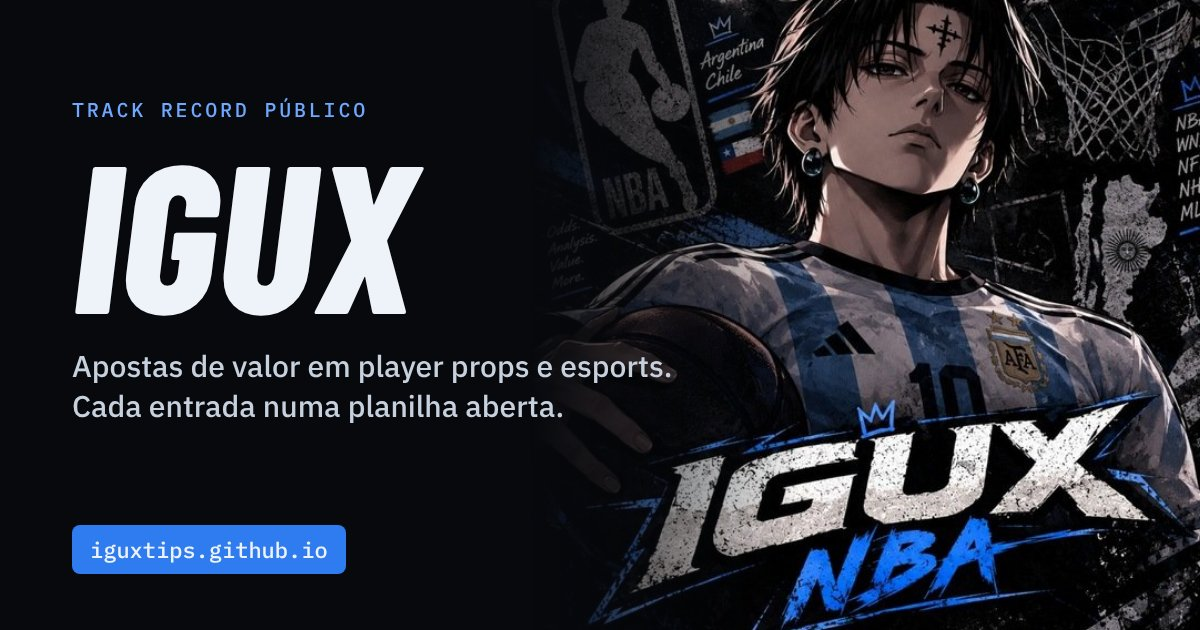
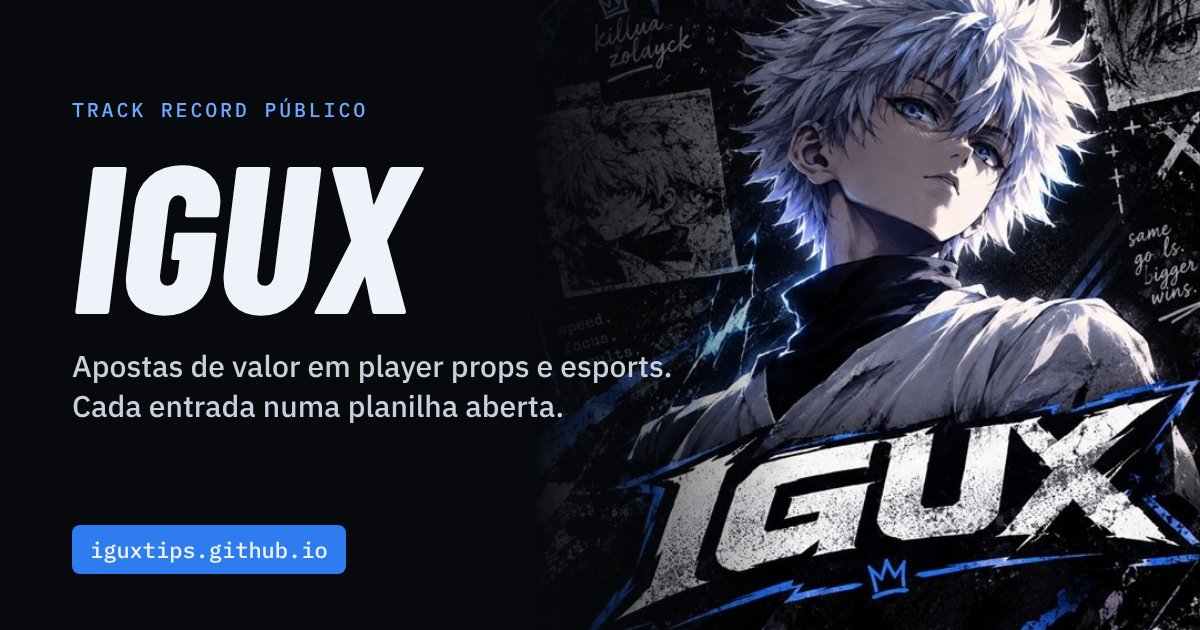
Artes de cada grupo nos cartões, nas abas e no topo
Claude-Session: https://claude.ai/code/session_01Tyuiv6YAYP7VsQ463MjUCv

diff --git a/index.html b/index.html
@@ -114,6 +114,8 @@ h3{font-weight:700;text-transform:uppercase;letter-spacing:.03em}
 .tabs{display:inline-flex;gap:4px;padding:4px;background:var(--surface);border:1px solid var(--line);border-radius:12px}
 .tabs button{font:600 14px var(--body);border:0;background:transparent;color:var(--muted);padding:8px 14px;border-radius:9px;cursor:pointer;min-height:40px}
 .tabs button[aria-pressed="true"]{background:var(--accent);color:#fff}
+.tabs button{display:inline-flex;align-items:center;gap:8px}
+.tabs img{display:inline-block;width:22px;height:22px;border-radius:50%;object-fit:cover}
 .sel{font:500 14px var(--body);background:var(--surface);color:var(--ink);border:1px solid var(--line);border-radius:10px;padding:9px 12px;min-height:42px}
 .live{display:inline-flex;align-items:center;gap:8px;font:500 12px var(--mono);letter-spacing:.08em;text-transform:uppercase;color:var(--muted)}
 .live::before{content:"";width:8px;height:8px;border-radius:50%;background:var(--green);box-shadow:0 0 0 4px var(--green-soft)}
@@ -165,6 +167,7 @@ td.pos{color:var(--green)} td.neg{color:var(--red)} td.na{color:var(--dim)}
 .svc-card{position:relative;background:var(--surface);border:1px solid var(--line);border-radius:16px;padding:20px;display:grid;gap:10px;align-content:start;overflow:hidden}
 .svc-card::before{content:"";position:absolute;left:0;top:0;bottom:0;width:3px;background:var(--line-2)}
 .svc-card.ao-vivo::before{background:var(--accent)}
+.svc-img{display:block;margin:-20px -20px 4px;width:calc(100% + 40px);max-width:none;height:150px;object-fit:cover;object-position:50% 24%;border-bottom:1px solid var(--line);filter:saturate(1.05)}
 .svc-card .badge{justify-self:start;font:500 11px var(--mono);letter-spacing:.08em;text-transform:uppercase;padding:3px 8px;border-radius:999px;background:var(--line);color:var(--muted)}
 .svc-card.ao-vivo .badge{background:var(--accent-soft);color:var(--accent-2)}
 .svc-card h3{font-size:24px}
@@ -249,10 +252,10 @@ footer p{margin:0;max-width:80ch}
       </div>
       <figure class="hero-art" style="margin:0">
         <picture>
-          <source srcset="img/igux-nba.webp" type="image/webp">
-          <img src="img/igux-nba.jpg" alt="Arte do Igux NBA: jogador com a camisa da Argentina segurando uma bola de basquete" width="640" height="640">
+          <source srcset="img/igux-futebol.webp" type="image/webp">
+          <img src="img/igux-futebol.jpg" alt="Arte do Igux: personagem de cabelo branco com o logo IGUX" width="640" height="640" fetchpriority="high">
         </picture>
-        <figcaption>Argentina · Chile</figcaption>
+        <figcaption>Speed · Focus · Results</figcaption>
       </figure>
     </div>
   </section>
@@ -266,8 +269,8 @@ footer p{margin:0;max-width:80ch}
         </div>
         <div class="panel-bar">
           <div class="tabs" role="group" aria-label="Canal">
-            <button type="button" data-canal="poly" aria-pressed="true">Canal Poly++</button>
-            <button type="button" data-canal="gringa" aria-pressed="false">NBA Gringa</button>
+            <button type="button" data-canal="poly" aria-pressed="true"><img src="img/igux-poly-mini.jpg" alt="" width="22" height="22">Canal Poly++</button>
+            <button type="button" data-canal="gringa" aria-pressed="false"><img src="img/igux-nba-mini.jpg" alt="" width="22" height="22">NBA Gringa</button>
           </div>
           <label><span class="sr" hidden>Período</span><select class="sel" id="periodoSel" aria-label="Período"></select></label>
         </div>
@@ -321,7 +324,7 @@ footer p{margin:0;max-width:80ch}
   <section class="sec" id="sobre">
     <div class="wrap">
       <div class="about">
-        <picture><source srcset="img/igux-nba.webp" type="image/webp"><img src="img/igux-nba.jpg" alt="" width="132" height="132" loading="lazy"></picture>
+        <picture><source srcset="img/igux-futebol.webp" type="image/webp"><img src="img/igux-futebol.jpg" alt="" width="132" height="132" loading="lazy"></picture>
         <div>
           <p class="kicker">// Quem é o Igux</p>
           <h2>Sobre</h2>
@@ -452,10 +455,10 @@ footer p{margin:0;max-width:80ch}
     DADOS = dados;
     var poly = lerLista(dados.apostas), gringa = lerLista(dados.gringa);
     var fixos = [
-      { id: "props", nome: HISTORICO.props.nome, periodo: HISTORICO.props.periodo, nota: HISTORICO.props.nota, meses: HISTORICO.props.meses, apostas: HISTORICO.props.apostas, url: PLANILHA.props },
-      { id: "nba", nome: HISTORICO.nba.nome, periodo: HISTORICO.nba.periodo, nota: HISTORICO.nba.nota, meses: HISTORICO.nba.meses, apostas: HISTORICO.nba.apostas, url: PLANILHA.nba },
-      { id: "poly", nome: "Canal Poly++", periodo: "out 2026 em diante", nota: "Props de NHL, NFL e NBA, esports e prediction markets.", meses: porMes(poly), apostas: fmt(resolvidasDe(poly).length, 0), vivo: true, url: PLANILHA.poly },
-      { id: "gringa", nome: "NBA Gringa", periodo: "out 2026 em diante", nota: "Props de NBA na Betano e na Bet365, pra quem usa conta da Argentina, do Chile e de outros países.", meses: porMes(gringa), apostas: fmt(resolvidasDe(gringa).length, 0), vivo: true, url: PLANILHA.gringa }
+      { id: "props", nome: HISTORICO.props.nome, periodo: HISTORICO.props.periodo, nota: HISTORICO.props.nota, meses: HISTORICO.props.meses, apostas: HISTORICO.props.apostas, url: PLANILHA.props, img: "igux-futebol", pos: "50% 22%" },
+      { id: "nba", nome: HISTORICO.nba.nome, periodo: HISTORICO.nba.periodo, nota: HISTORICO.nba.nota, meses: HISTORICO.nba.meses, apostas: HISTORICO.nba.apostas, url: PLANILHA.nba, img: "igux-nba-red", pos: "50% 18%" },
+      { id: "poly", nome: "Canal Poly++", periodo: "out 2026 em diante", nota: "Props de NHL, NFL e NBA, esports e prediction markets.", meses: porMes(poly), apostas: fmt(resolvidasDe(poly).length, 0), vivo: true, url: PLANILHA.poly, img: "igux-poly", pos: "50% 30%" },
+      { id: "gringa", nome: "NBA Gringa", periodo: "out 2026 em diante", nota: "Props de NBA na Betano e na Bet365, pra quem usa conta da Argentina, do Chile e de outros países.", meses: porMes(gringa), apostas: fmt(resolvidasDe(gringa).length, 0), vivo: true, url: PLANILHA.gringa, img: "igux-nba", pos: "50% 22%" }
     ];
     var servicos = fixos.filter(function(sv){ return !sv.vivo || Object.keys(sv.meses).length; });
 
@@ -464,7 +467,10 @@ footer p{margin:0;max-width:80ch}
     servicos.forEach(function(sv){
       var t = somaMeses(sv.meses);
       var c = el("article", "svc-card" + (sv.vivo ? " ao-vivo" : ""));
-      c.appendChild(el("span", "badge", sv.vivo ? "Ao vivo · " + sv.periodo : sv.periodo));
+      var pic = el("picture"), so = el("source"); so.srcset = "img/" + sv.img + ".webp"; so.type = "image/webp";
+      var im = el("img", "svc-img"); im.src = "img/" + sv.img + ".jpg"; im.alt = ""; im.loading = "lazy"; im.width = 640; im.height = 640; im.style.objectPosition = sv.pos;
+      pic.appendChild(so); pic.appendChild(im); c.appendChild(pic);
+      c.appendChild(el("span", "badge", sv.vivo ? "Ao vivo · desde out/26" : sv.periodo));
       c.appendChild(el("h3", null, sv.nome));
       c.appendChild(el("div", "big num " + (t[0] >= 0 ? "pos" : "neg"), sinal(t[0], 1) + "u"));
       var dl = el("dl");
